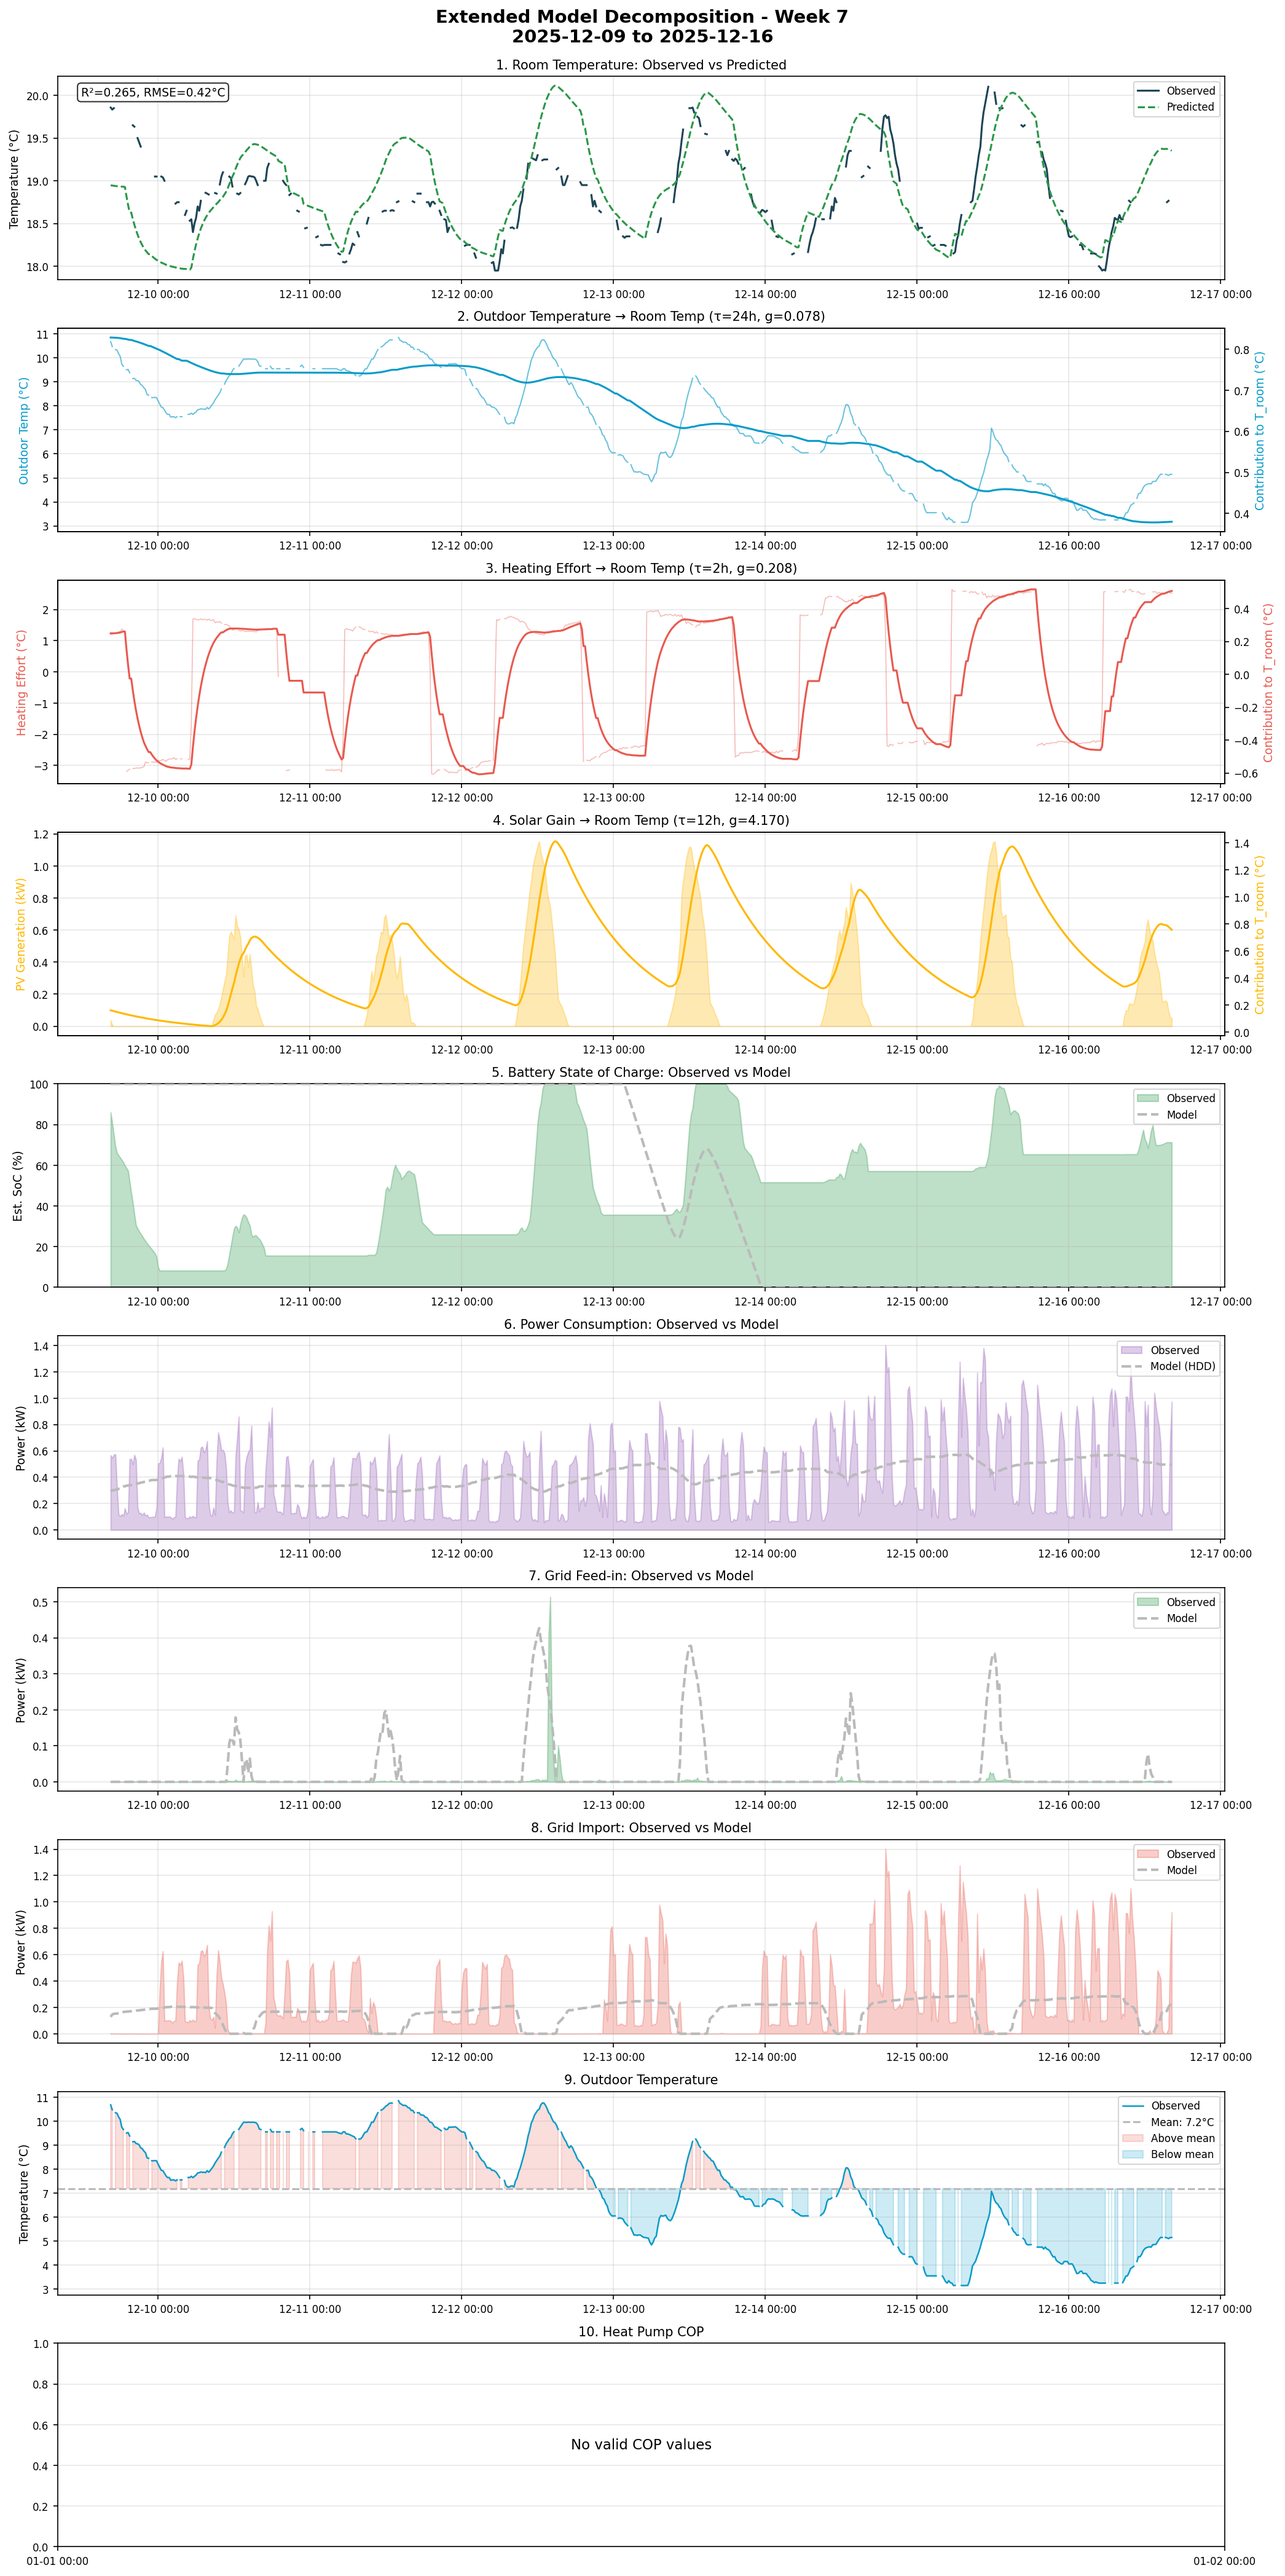
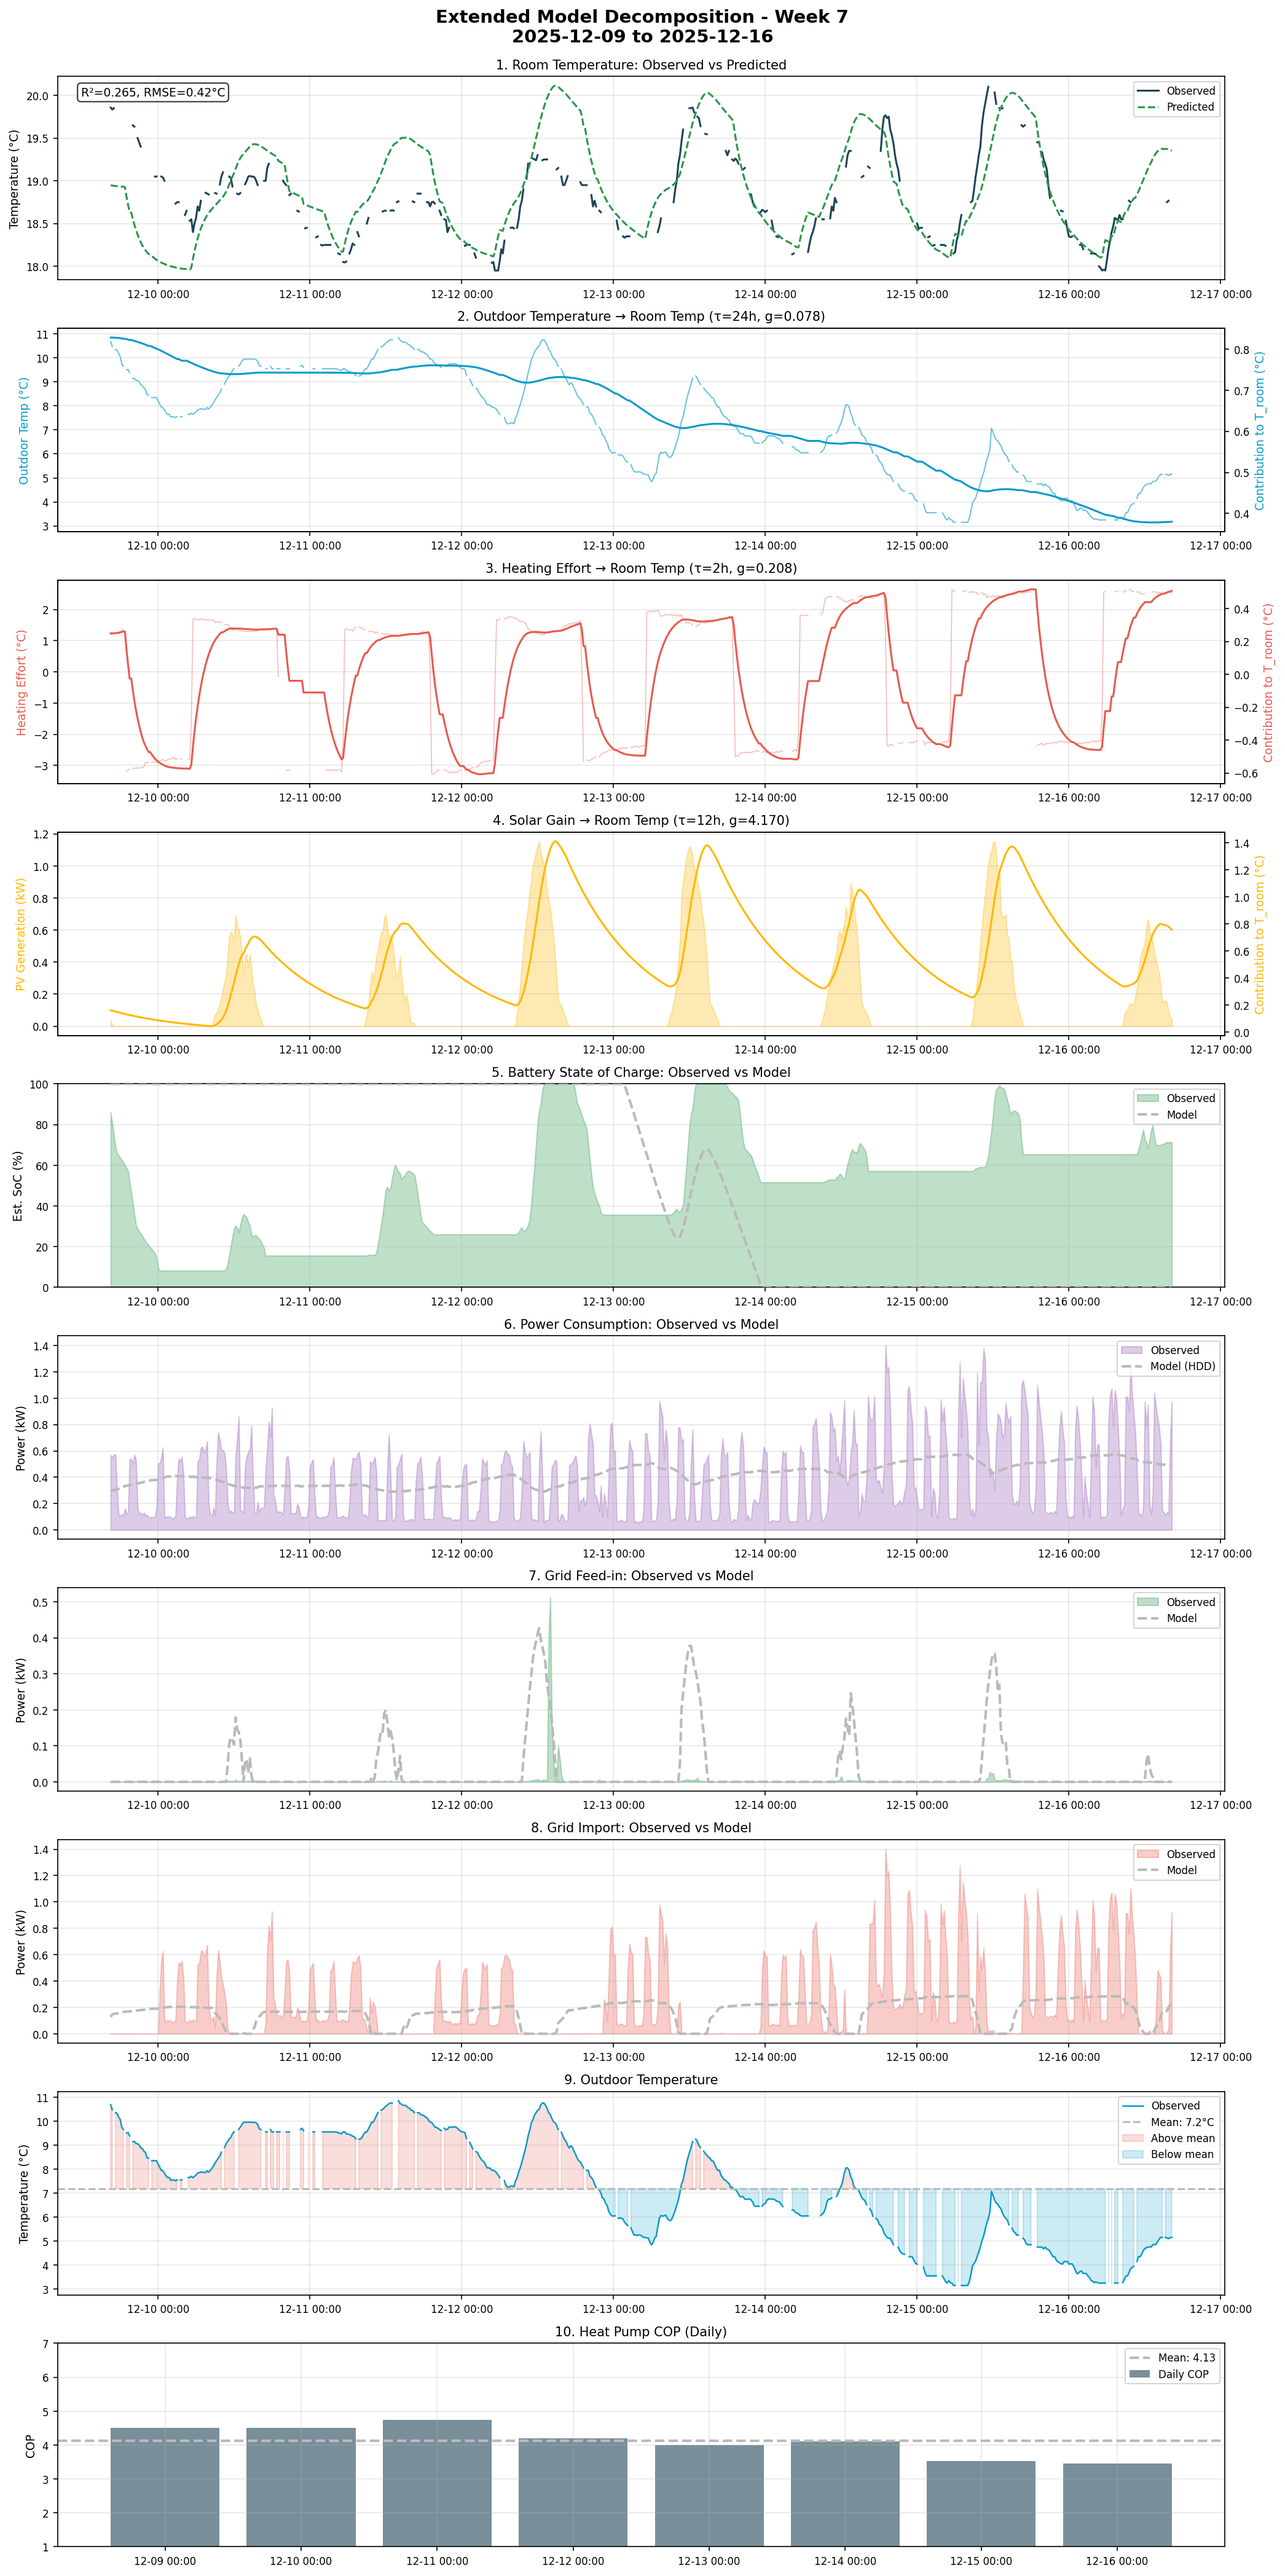
Fix COP panel to use daily aggregation
Q and E sensors report at different timestamps with zero overlap.
Changed from instantaneous diff calculation to daily aggregation:
- Get daily max values (end-of-day cumulative counter)
- Calculate COP = Q_daily / E_daily
- Display as daily bars with mean line

🤖 Generated with [Claude Code](https://claude.com/claude-code)

diff --git a/src/phase3/06_extended_decomposition.py b/src/phase3/06_extended_decomposition.py
@@ -476,45 +476,57 @@ def create_extended_decomposition(df, energy_df, heating_df, params, hc_params,
     # === Panel 10: Heat Pump COP ===
     ax = axes[9]
     if len(heating_week) > 0:
-        # Calculate instantaneous COP from today's counters
-        q_heat = heating_week.get('stiebel_eltron_isg_produced_heating_today', pd.Series())
-        e_elec = heating_week.get('stiebel_eltron_isg_consumed_heating_today', pd.Series())
+        # Get daily COP from daily counter max values
+        # Q and E report at different timestamps, so use daily aggregation
+        q_col = 'stiebel_eltron_isg_produced_heating_today'
+        e_col = 'stiebel_eltron_isg_consumed_heating_today'
 
-        if len(q_heat) > 0 and len(e_elec) > 0 and q_heat.notna().sum() > 10:
-            # Use differences for incremental COP calculation
-            q_diff = q_heat.diff().fillna(0)
-            e_diff = e_elec.diff().fillna(0)
+        q_heat = heating_week.get(q_col, pd.Series())
+        e_elec = heating_week.get(e_col, pd.Series())
 
-            # Calculate COP where both are positive
-            valid_cop = (e_diff > 0.01) & (q_diff > 0)
-            cop = pd.Series(index=heating_week.index, dtype=float)
-            cop[valid_cop] = q_diff[valid_cop] / e_diff[valid_cop]
-            cop = cop.clip(1, 8)  # Reasonable COP range
+        if len(q_heat) > 0 and len(e_elec) > 0:
+            # Get daily max (end-of-day cumulative value)
+            q_daily = q_heat.dropna().groupby(q_heat.dropna().index.date).max()
+            e_daily = e_elec.dropna().groupby(e_elec.dropna().index.date).max()
 
-            if valid_cop.sum() > 0:
-                # Smooth COP
-                cop_smooth = cop.rolling(window=16, min_periods=1).mean()
+            # Align on common dates
+            common_dates = q_daily.index.intersection(e_daily.index)
 
-                ax.scatter(heating_week.index[valid_cop], cop[valid_cop],
-                          color=COLORS['cop'], alpha=0.2, s=8, label='Instantaneous')
-                ax.plot(heating_week.index, cop_smooth, color=COLORS['cop'],
-                       linewidth=2, label='Smoothed (4h)')
-                mean_cop = cop[valid_cop].mean()
-                ax.axhline(y=mean_cop, color=COLORS['baseline'], linestyle='--',
-                          label=f'Mean: {mean_cop:.2f}')
-                ax.set_ylabel('COP')
-                ax.set_ylim(1, 7)
-                ax.legend(loc='upper right')
+            if len(common_dates) > 0:
+                q_aligned = q_daily.loc[common_dates]
+                e_aligned = e_daily.loc[common_dates]
+
+                # Calculate daily COP where E > 0
+                valid = e_aligned > 0.1
+                cop_daily = pd.Series(index=common_dates, dtype=float)
+                cop_daily[valid] = q_aligned[valid] / e_aligned[valid]
+                cop_daily = cop_daily.clip(1, 8)
+
+                if cop_daily.notna().sum() > 0:
+                    # Convert dates to datetime for plotting
+                    dates = pd.to_datetime(cop_daily.index)
+
+                    ax.bar(dates, cop_daily.values, width=0.8, color=COLORS['cop'],
+                           alpha=0.6, label='Daily COP')
+                    mean_cop = cop_daily.mean()
+                    ax.axhline(y=mean_cop, color=COLORS['baseline'], linestyle='--',
+                              linewidth=2, label=f'Mean: {mean_cop:.2f}')
+                    ax.set_ylabel('COP')
+                    ax.set_ylim(1, 7)
+                    ax.legend(loc='upper right')
+                else:
+                    ax.text(0.5, 0.5, 'No valid daily COP values', ha='center', va='center',
+                            transform=ax.transAxes, fontsize=11)
             else:
-                ax.text(0.5, 0.5, 'No valid COP values', ha='center', va='center',
+                ax.text(0.5, 0.5, 'No overlapping Q/E dates', ha='center', va='center',
                         transform=ax.transAxes, fontsize=11)
         else:
-            ax.text(0.5, 0.5, 'Insufficient COP data', ha='center', va='center',
+            ax.text(0.5, 0.5, 'Missing COP sensors', ha='center', va='center',
                     transform=ax.transAxes, fontsize=11)
     else:
         ax.text(0.5, 0.5, 'No heating data', ha='center', va='center',
                 transform=ax.transAxes, fontsize=11)
-    ax.set_title('10. Heat Pump COP')
+    ax.set_title('10. Heat Pump COP (Daily)')
     ax.grid(True, alpha=0.3)
 
     # Format x-axes for all panels
